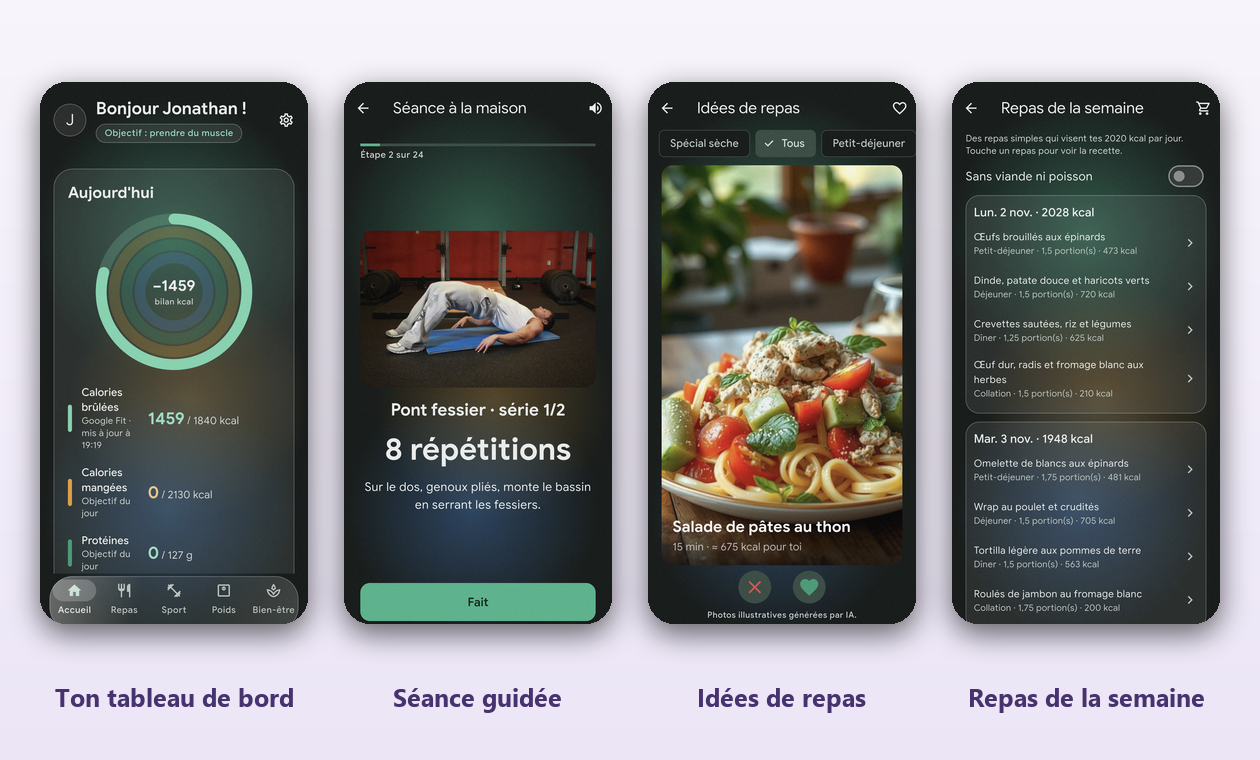
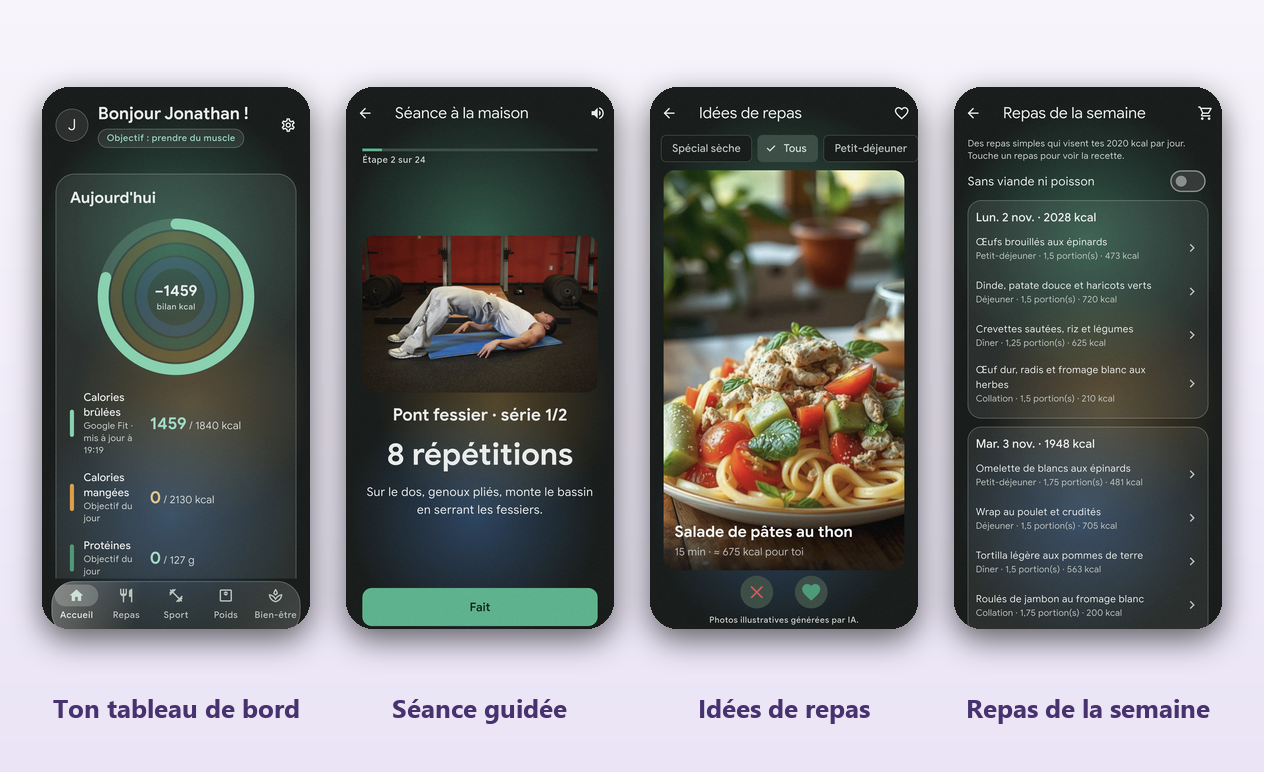
Script de generation des visuels de la page GitHub

diff --git a/app/tool/generer_visuels_github.py b/app/tool/generer_visuels_github.py
@@ -1,0 +1,198 @@
+"""Fabrique les visuels de la page GitHub : banniere, planche d'ecrans, teintes.
+
+Attend des captures d'ecran brutes du telephone (portrait) dans un dossier,
+nommees : accueil.png  seance.png  idees.png  semaine.png  accueil_aurore.png
+Les prendre avec : adb exec-out screencap -p > accueil.png
+
+Usage : python tool/generer_visuels_github.py <dossier_des_captures>
+Ecrit dans docs/images/ : banniere.png, ecrans.png, themes.png
+"""
+import sys
+from pathlib import Path
+
+from PIL import Image, ImageDraw, ImageFilter, ImageFont
+
+RACINE = Path(__file__).resolve().parent.parent.parent
+SORTIE = RACINE / "docs" / "images"
+CAPTURES = Path(sys.argv[1]) if len(sys.argv) > 1 else Path.cwd()
+
+VIOLET = (106, 63, 181)
+VIOLET_FONCE = (46, 20, 92)
+ROSE = (242, 135, 184)
+BLANC = (255, 255, 255)
+POLICES = Path(r"C:\Windows\Fonts")
+
+# Barre d'etat et barre de gestes, retirees des captures.
+HAUT, BAS = 118, 64
+
+
+def police(nom, taille):
+    return ImageFont.truetype(str(POLICES / nom), taille)
+
+
+def trait(d, a, b, epaisseur, couleur):
+    """Segment a bouts ronds."""
+    d.line([a, b], fill=couleur, width=epaisseur)
+    for x, y in (a, b):
+        r = epaisseur / 2
+        d.ellipse([x - r, y - r, x + r, y + r], fill=couleur)
+
+
+def logo(taille):
+    """Le V blanc et son point rose, sur fond transparent."""
+    t = taille * 4
+    img = Image.new("RGBA", (t, t), (0, 0, 0, 0))
+    d = ImageDraw.Draw(img)
+    k = t / 130
+    trait(d, (34 * k, 36 * k), (65 * k, 100 * k), round(16 * k), BLANC)
+    trait(d, (65 * k, 100 * k), (96 * k, 36 * k), round(16 * k), BLANC)
+    r = 12 * k
+    d.ellipse([96 * k - r, 36 * k - r, 96 * k + r, 36 * k + r], fill=ROSE)
+    return img.resize((taille, taille), Image.LANCZOS)
+
+
+def degrade(largeur, hauteur, haut, bas):
+    img = Image.new("RGB", (largeur, hauteur), haut)
+    d = ImageDraw.Draw(img)
+    for y in range(hauteur):
+        f = y / max(hauteur - 1, 1)
+        d.line(
+            [(0, y), (largeur, y)],
+            fill=tuple(round(haut[i] + (bas[i] - haut[i]) * f) for i in range(3)),
+        )
+    return img
+
+
+def halo(img, centre, rayon, couleur, force):
+    """Tache de lumiere coloree, fondue dans l'image."""
+    c = Image.new("RGB", img.size, (0, 0, 0))
+    x, y = centre
+    ImageDraw.Draw(c).ellipse(
+        [x - rayon, y - rayon, x + rayon, y + rayon], fill=couleur
+    )
+    return Image.blend(img, c.filter(ImageFilter.GaussianBlur(rayon / 2)), force)
+
+
+def coins_arrondis(img, rayon):
+    masque = Image.new("L", img.size, 0)
+    ImageDraw.Draw(masque).rounded_rectangle(
+        [0, 0, img.size[0] - 1, img.size[1] - 1], rayon, fill=255
+    )
+    out = img.convert("RGBA")
+    out.putalpha(masque)
+    return out
+
+
+def ombre(img, flou, decalage, opacite):
+    """Pose l'image sur son ombre portee ; rend une image plus grande."""
+    marge = flou * 3
+    toile = Image.new(
+        "RGBA", (img.width + marge * 2, img.height + marge * 2), (0, 0, 0, 0)
+    )
+    o = Image.new("RGBA", toile.size, (0, 0, 0, 0))
+    o.paste(
+        Image.new("RGBA", img.size, (0, 0, 0, opacite)),
+        (marge, marge + decalage),
+        img.split()[3],
+    )
+    toile = Image.alpha_composite(toile, o.filter(ImageFilter.GaussianBlur(flou)))
+    toile.paste(img, (marge, marge), img)
+    return toile
+
+
+def telephone(nom, largeur):
+    """Une capture, rognee, aux coins arrondis et avec son ombre."""
+    im = Image.open(CAPTURES / f"{nom}.png").convert("RGB")
+    im = im.crop((0, HAUT, im.width, im.height - BAS))
+    h = round(im.height * largeur / im.width)
+    return ombre(
+        coins_arrondis(im.resize((largeur, h), Image.LANCZOS), 27), 15, 11, 150
+    )
+
+
+def planche(noms, legendes, couleurs, largeur, ecart, fichier):
+    """Des telephones alignes, chacun sous sa legende."""
+    marge, hauteur_legende = 42, 56
+    tels = [telephone(n, largeur) for n in noms]
+    ht = tels[0].height
+    img = degrade(
+        marge * 2 + largeur * len(tels) + ecart * (len(tels) - 1),
+        marge * 2 + ht + hauteur_legende,
+        (247, 244, 251),
+        (234, 228, 246),
+    )
+    d = ImageDraw.Draw(img)
+    pol = police("segoeuib.ttf", 26)
+    for k, (tel, leg, coul) in enumerate(zip(tels, legendes, couleurs)):
+        gauche = marge + k * (largeur + ecart)
+        img.paste(
+            tel,
+            (gauche - (tel.width - largeur) // 2, marge - (tel.height - ht) // 2),
+            tel,
+        )
+        d.text(
+            (gauche + largeur // 2, marge + ht + 15),
+            leg,
+            font=pol,
+            fill=coul,
+            anchor="ma",
+        )
+    img.save(SORTIE / fichier)
+
+
+def banniere():
+    img = degrade(1280, 440, VIOLET, VIOLET_FONCE)
+    img = halo(img, (980, 90), 420, (150, 90, 230), 0.55)
+    img = halo(img, (120, 420), 360, (190, 70, 150), 0.30)
+    d = ImageDraw.Draw(img)
+
+    lg = logo(150)
+    img.paste(lg, (118, 108), lg)
+    d.text((300, 120), "Vyta", font=police("segoeuib.ttf", 112), fill=BLANC)
+    d.text(
+        (306, 258),
+        "Ton coach nutrition et sport, dans ta poche.",
+        font=police("segoeui.ttf", 34),
+        fill=(228, 215, 250),
+    )
+    d.text(
+        (306, 310),
+        "Photographie ton assiette. Suis ta séance. Avance.",
+        font=police("segoeui.ttf", 27),
+        fill=(196, 176, 230),
+    )
+
+    # Les trois anneaux du tableau de bord, en filigrane, debordant a droite.
+    an = Image.new("RGBA", (300, 300), (0, 0, 0, 0))
+    da = ImageDraw.Draw(an)
+    for i, (coul, part) in enumerate(
+        ((BLANC, 0.78), (ROSE, 0.62), ((176, 142, 255), 0.45))
+    ):
+        ep = 19
+        r = 140 - i * ep * 1.5
+        boite = [150 - r, 150 - r, 150 + r, 150 + r]
+        da.arc(boite, 0, 360, fill=coul + (40,), width=ep)
+        da.arc(boite, -90, -90 + 360 * part, fill=coul + (165,), width=ep)
+    img.paste(an, (1045, 70), an)
+    img.save(SORTIE / "banniere.png")
+
+
+SORTIE.mkdir(parents=True, exist_ok=True)
+banniere()
+planche(
+    ["accueil", "seance", "idees", "semaine"],
+    ["Ton tableau de bord", "Séance guidée", "Idées de repas", "Repas de la semaine"],
+    [(70, 50, 110)] * 4,
+    268,
+    36,
+    "ecrans.png",
+)
+planche(
+    ["accueil", "accueil_aurore"],
+    ["Forêt", "Aurore"],
+    [(15, 110, 86), VIOLET],
+    300,
+    60,
+    "themes.png",
+)
+print("visuels écrits dans", SORTIE)

diff --git a/README.md b/README.md
@@ -115,6 +115,7 @@ Android 8 et plus, processeurs arm64. L'application prévient elle-même quand u
 | `relais/` | Le relais Cloudflare Worker pour l'analyse des photos ([détails](relais/README.md)). |
 | `firebase/` | Les règles Firestore et leurs tests. |
 | `docs/superpowers/` | Les spécifications et les plans. |
+| `docs/images/` | Les visuels de cette page, refaits par `app/tool/generer_visuels_github.py`. |
 
 ### Lancer le projet
 
